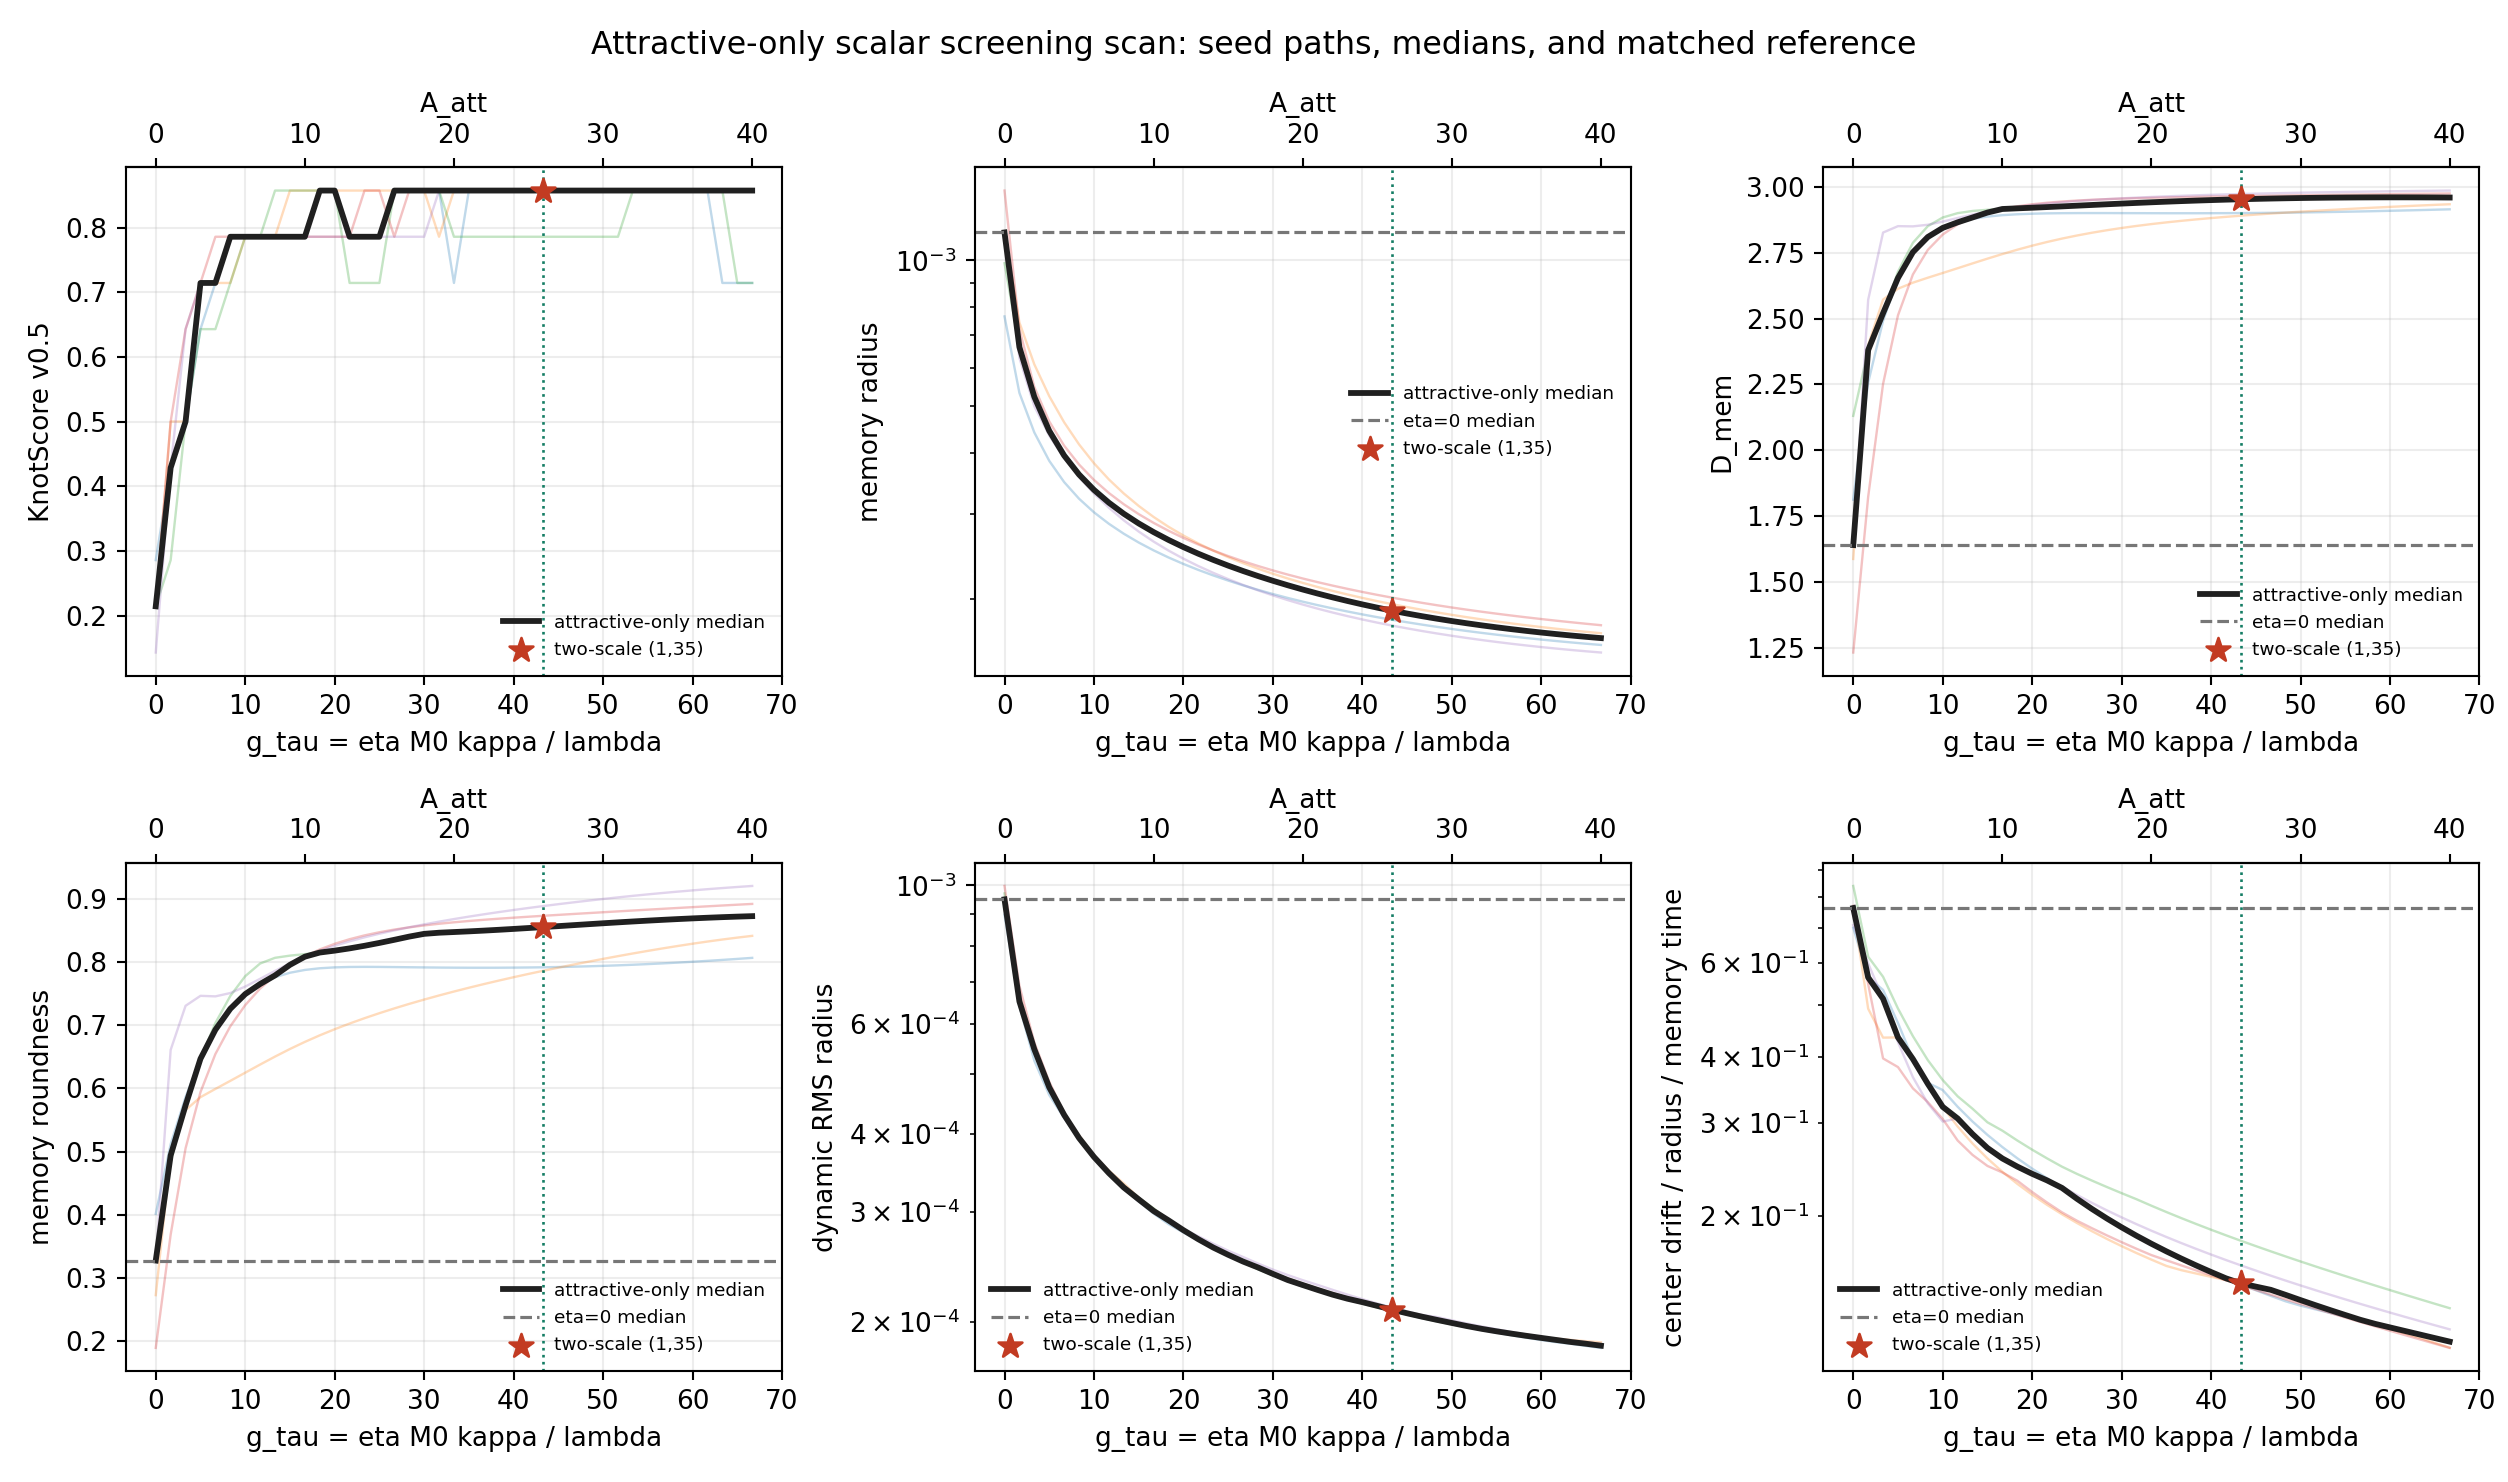
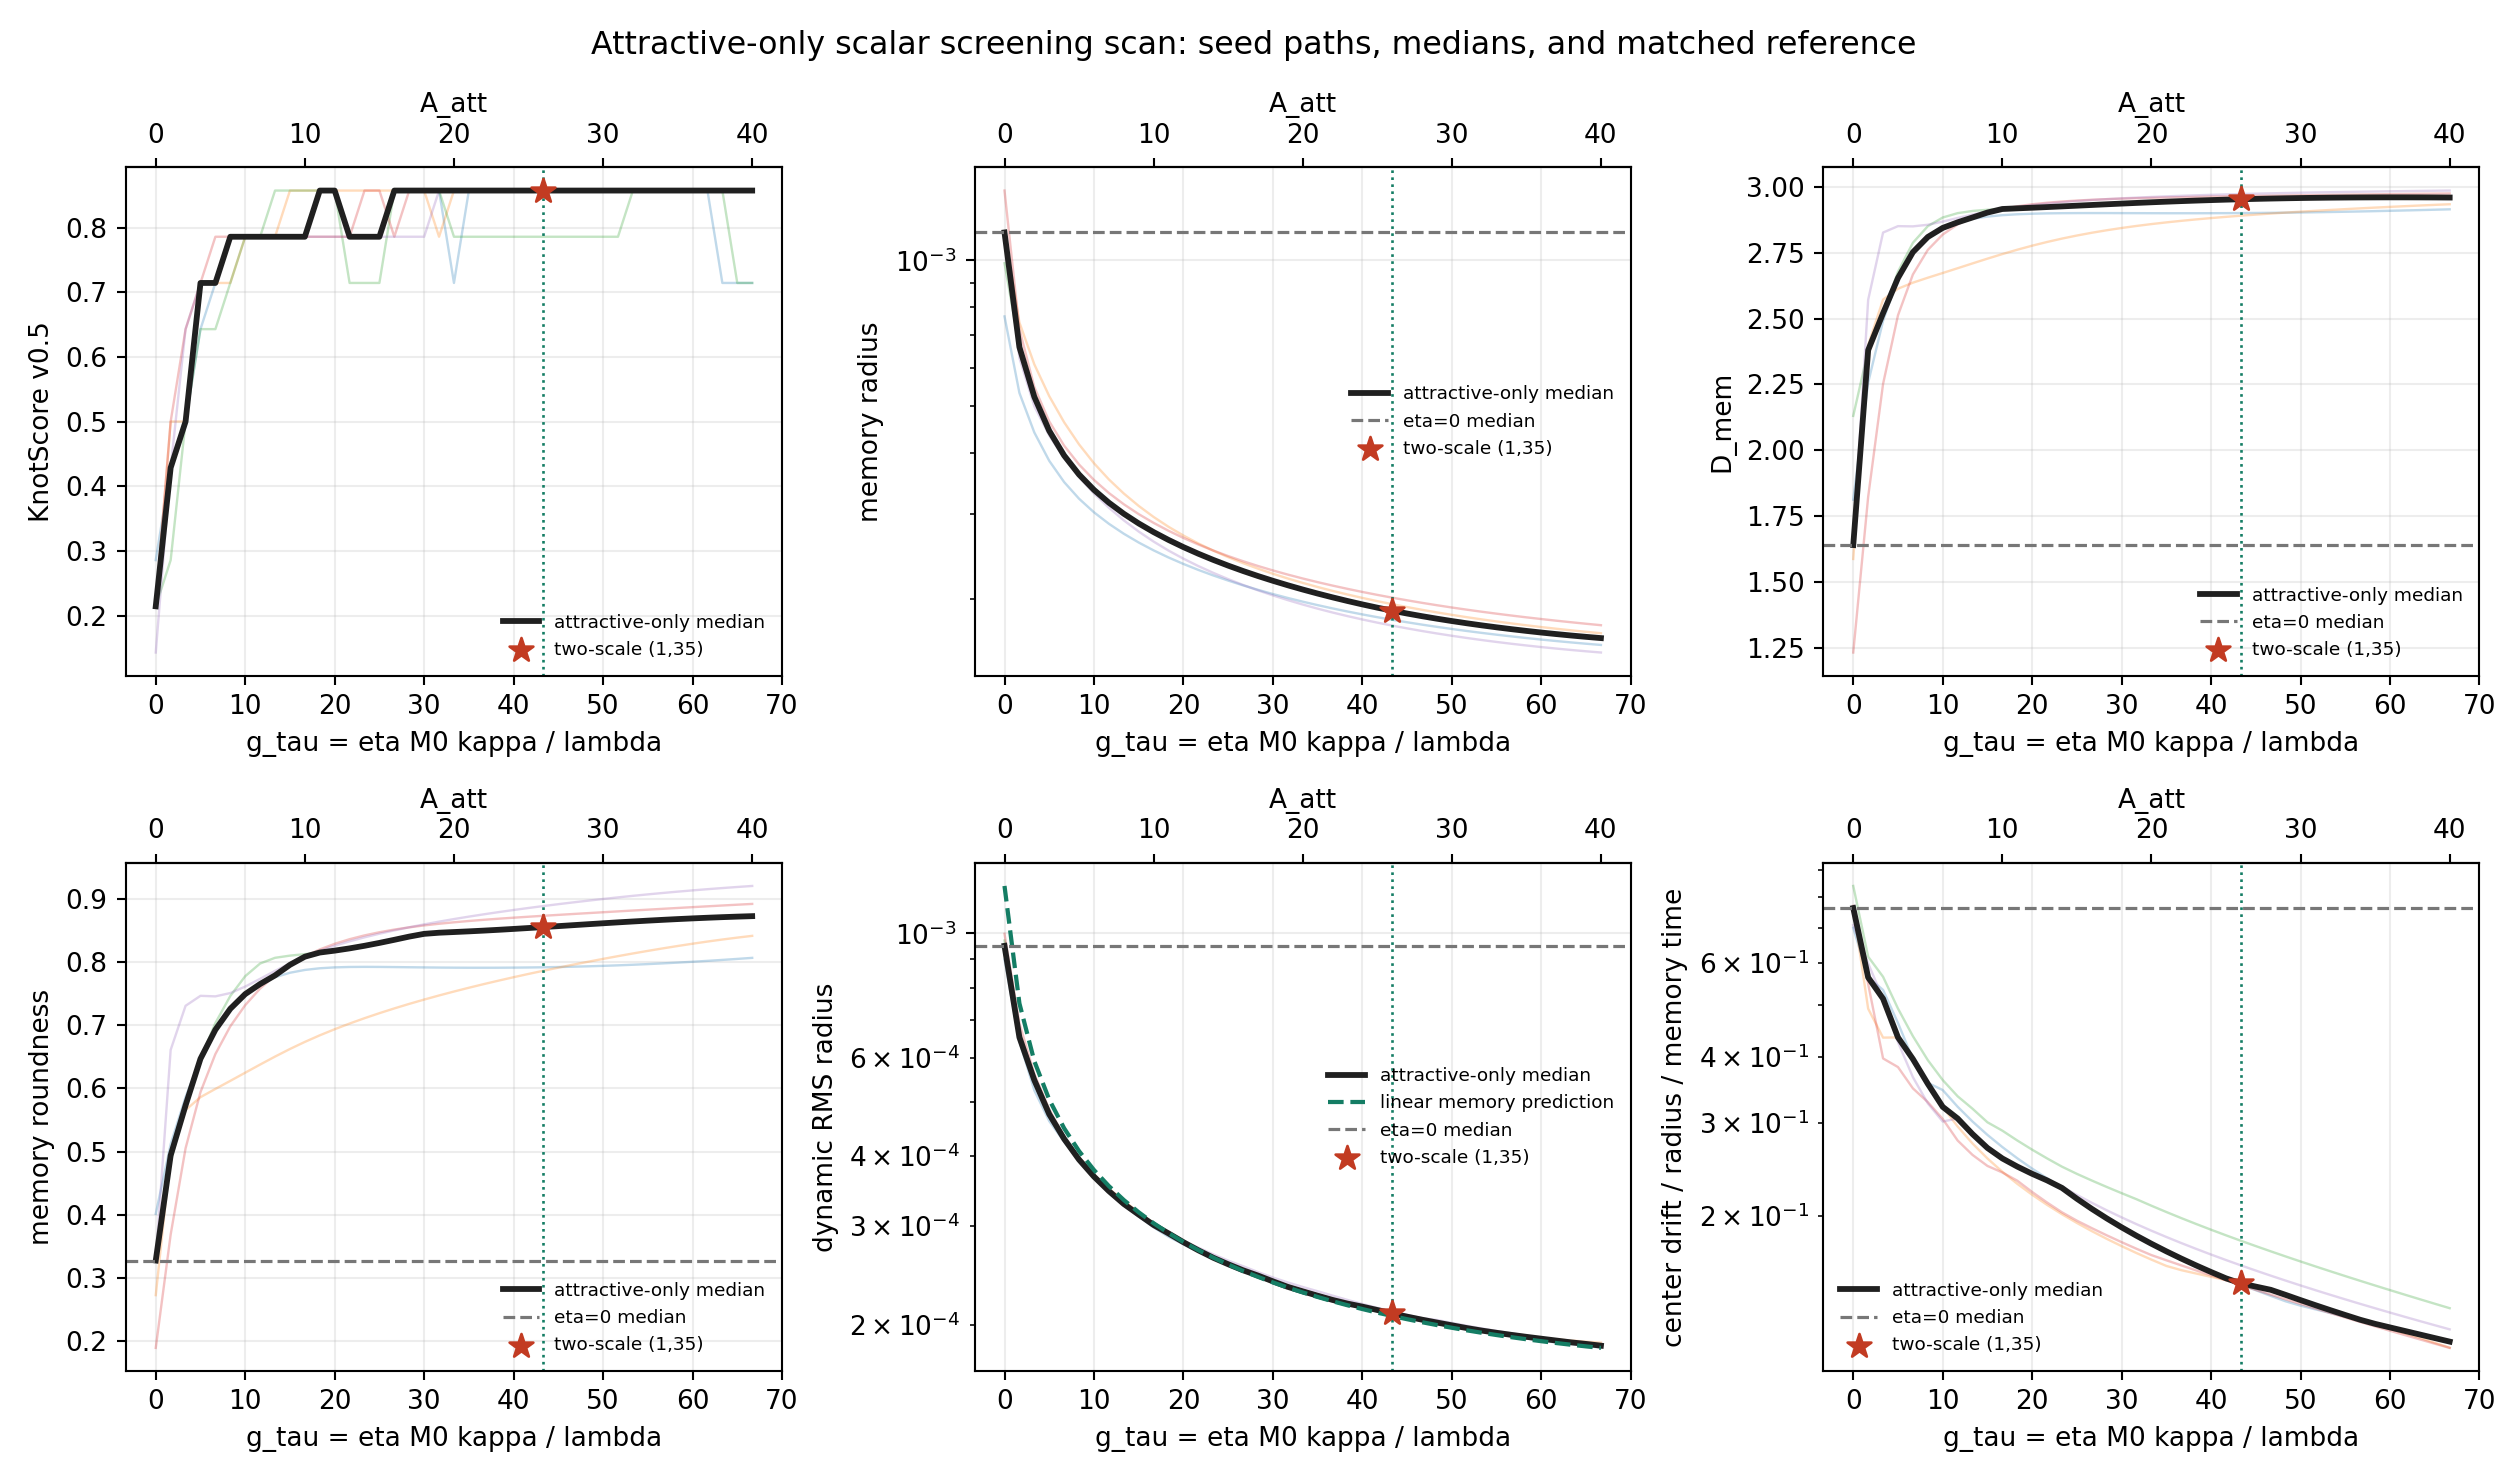
Publish attractive-only scan reconciliation

diff --git a/reports/kernels/core/attractive_only_regime_scan_d3_N300k_2026-07-18.md b/reports/kernels/core/attractive_only_regime_scan_d3_N300k_2026-07-18.md
@@ -1,6 +1,6 @@
 # Attractive-Only Scalar Regime Scan
 
-Date: 2026-07-18T22:45:30Z.
+Date: 2026-07-18T23:15:45Z.
 
 ## Scope
 
@@ -15,54 +15,57 @@ Without `A_rep`, every `A_att>0` has positive local restoring curvature.
 The former sign boundary near `A_att=9` is therefore absent analytically.
 Intervals below are ranked empirical KPI changes, not pre-labelled phase
 transitions.
+In this normalization `g=eta M0 A_att/sigma_att^2=A_att/60`.
+The whole scan is below the monotone/alternating boundary `A_att=60`
+and the linear relative-mode stability boundary `A_att=121`.
 
 ![Attractive-only regime scan](../../../figures/draft/kernels/core_2026-07-18/attractive_only_regime_scan.png)
 
 ## Aggregate
 
-| A_att | kappa | g/update | g/tau_mem | score | compact gain | R_mem/L_att | D_mem | roundness | dyn R | drift/R |
-| ---: | ---: | ---: | ---: | ---: | ---: | ---: | ---: | ---: | ---: | ---: |
-| 0 | 0 | 0 | 0 | 0.2143 | 1.0000 | 3.8059e-04 | 1.6406 | 0.3274 | 9.5007e-04 | 0.7625 |
-| 1.0000 | 0.1111 | 0.0167 | 1.6667 | 0.4286 | 1.5405 | 2.2064e-04 | 2.3800 | 0.4939 | 6.5201e-04 | 0.5641 |
-| 2.0000 | 0.2222 | 0.0333 | 3.3333 | 0.5000 | 1.8873 | 1.7421e-04 | 2.5204 | 0.5733 | 5.4674e-04 | 0.5143 |
-| 3.0000 | 0.3333 | 0.0500 | 5.0000 | 0.7143 | 2.2177 | 1.4826e-04 | 2.6539 | 0.6470 | 4.7519e-04 | 0.4348 |
-| 4.0000 | 0.4444 | 0.0667 | 6.6667 | 0.7143 | 2.4943 | 1.3181e-04 | 2.7519 | 0.6931 | 4.2932e-04 | 0.3958 |
-| 5.0000 | 0.5556 | 0.0833 | 8.3333 | 0.7857 | 2.7499 | 1.2042e-04 | 2.8094 | 0.7263 | 3.9419e-04 | 0.3554 |
-| 6.0000 | 0.6667 | 0.1000 | 10.0000 | 0.7857 | 3.0075 | 1.1196e-04 | 2.8439 | 0.7495 | 3.6766e-04 | 0.3216 |
-| 7.0000 | 0.7778 | 0.1167 | 11.6667 | 0.7857 | 3.2480 | 1.0533e-04 | 2.8651 | 0.7655 | 3.4635e-04 | 0.3058 |
-| 8.0000 | 0.8889 | 0.1333 | 13.3333 | 0.7857 | 3.4729 | 9.9943e-05 | 2.8835 | 0.7792 | 3.2846e-04 | 0.2857 |
-| 9.0000 | 1.0000 | 0.1500 | 15.0000 | 0.7857 | 3.6841 | 9.5443e-05 | 2.9022 | 0.7959 | 3.1441e-04 | 0.2690 |
-| 10.0000 | 1.1111 | 0.1667 | 16.6667 | 0.7857 | 3.8825 | 9.1598e-05 | 2.9157 | 0.8088 | 3.0123e-04 | 0.2571 |
-| 11.0000 | 1.2222 | 0.1833 | 18.3333 | 0.8571 | 4.0682 | 8.8248e-05 | 2.9181 | 0.8154 | 2.9098e-04 | 0.2481 |
-| 12.0000 | 1.3333 | 0.2000 | 20.0000 | 0.8571 | 4.2412 | 8.5288e-05 | 2.9205 | 0.8184 | 2.8066e-04 | 0.2405 |
-| 13.0000 | 1.4444 | 0.2167 | 21.6667 | 0.7857 | 4.4036 | 8.2644e-05 | 2.9230 | 0.8220 | 2.7143e-04 | 0.2337 |
-| 14.0000 | 1.5556 | 0.2333 | 23.3333 | 0.7857 | 4.5562 | 8.0264e-05 | 2.9256 | 0.8261 | 2.6326e-04 | 0.2262 |
-| 15.0000 | 1.6667 | 0.2500 | 25.0000 | 0.7857 | 4.6999 | 7.8105e-05 | 2.9282 | 0.8306 | 2.5631e-04 | 0.2158 |
-| 16.0000 | 1.7778 | 0.2667 | 26.6667 | 0.8571 | 4.8356 | 7.6135e-05 | 2.9309 | 0.8355 | 2.5001e-04 | 0.2065 |
-| 17.0000 | 1.8889 | 0.2833 | 28.3333 | 0.8571 | 4.9641 | 7.4331e-05 | 2.9336 | 0.8406 | 2.4462e-04 | 0.1982 |
-| 18.0000 | 2.0000 | 0.3000 | 30.0000 | 0.8571 | 5.0859 | 7.2672e-05 | 2.9362 | 0.8450 | 2.3889e-04 | 0.1906 |
-| 19.0000 | 2.1111 | 0.3167 | 31.6667 | 0.8571 | 5.2017 | 7.1138e-05 | 2.9387 | 0.8468 | 2.3352e-04 | 0.1837 |
-| 20.0000 | 2.2222 | 0.3333 | 33.3333 | 0.8571 | 5.3118 | 6.9717e-05 | 2.9411 | 0.8478 | 2.2927e-04 | 0.1775 |
-| 21.0000 | 2.3333 | 0.3500 | 35.0000 | 0.8571 | 5.4167 | 6.8395e-05 | 2.9434 | 0.8489 | 2.2518e-04 | 0.1717 |
-| 22.0000 | 2.4444 | 0.3667 | 36.6667 | 0.8571 | 5.5170 | 6.7165e-05 | 2.9456 | 0.8501 | 2.2129e-04 | 0.1664 |
-| 23.0000 | 2.5556 | 0.3833 | 38.3333 | 0.8571 | 5.6129 | 6.6020e-05 | 2.9476 | 0.8514 | 2.1799e-04 | 0.1615 |
-| 24.0000 | 2.6667 | 0.4000 | 40.0000 | 0.8571 | 5.7048 | 6.4952e-05 | 2.9494 | 0.8528 | 2.1527e-04 | 0.1570 |
-| 25.0000 | 2.7778 | 0.4167 | 41.6667 | 0.8571 | 5.7929 | 6.3960e-05 | 2.9511 | 0.8542 | 2.1231e-04 | 0.1527 |
-| 26.0000 | 2.8889 | 0.4333 | 43.3333 | 0.8571 | 5.8775 | 6.3044e-05 | 2.9527 | 0.8557 | 2.0934e-04 | 0.1494 |
-| 27.0000 | 3.0000 | 0.4500 | 45.0000 | 0.8571 | 5.9588 | 6.2199e-05 | 2.9540 | 0.8572 | 2.0659e-04 | 0.1474 |
-| 28.0000 | 3.1111 | 0.4667 | 46.6667 | 0.8571 | 6.0368 | 6.1416e-05 | 2.9553 | 0.8588 | 2.0403e-04 | 0.1453 |
-| 29.0000 | 3.2222 | 0.4833 | 48.3333 | 0.8571 | 6.1117 | 6.0689e-05 | 2.9563 | 0.8603 | 2.0164e-04 | 0.1421 |
-| 30.0000 | 3.3333 | 0.5000 | 50.0000 | 0.8571 | 6.1835 | 6.0013e-05 | 2.9573 | 0.8617 | 1.9935e-04 | 0.1390 |
-| 31.0000 | 3.4444 | 0.5167 | 51.6667 | 0.8571 | 6.2522 | 5.9383e-05 | 2.9580 | 0.8632 | 1.9710e-04 | 0.1359 |
-| 32.0000 | 3.5556 | 0.5333 | 53.3333 | 0.8571 | 6.3178 | 5.8797e-05 | 2.9587 | 0.8646 | 1.9509e-04 | 0.1330 |
-| 33.0000 | 3.6667 | 0.5500 | 55.0000 | 0.8571 | 6.3805 | 5.8251e-05 | 2.9592 | 0.8659 | 1.9331e-04 | 0.1302 |
-| 34.0000 | 3.7778 | 0.5667 | 56.6667 | 0.8571 | 6.4405 | 5.7741e-05 | 2.9595 | 0.8672 | 1.9166e-04 | 0.1276 |
-| 35.0000 | 3.8889 | 0.5833 | 58.3333 | 0.8571 | 6.4978 | 5.7266e-05 | 2.9598 | 0.8684 | 1.9012e-04 | 0.1253 |
-| 36.0000 | 4.0000 | 0.6000 | 60.0000 | 0.8571 | 6.5526 | 5.6823e-05 | 2.9599 | 0.8695 | 1.8867e-04 | 0.1234 |
-| 37.0000 | 4.1111 | 0.6167 | 61.6667 | 0.8571 | 6.6050 | 5.6411e-05 | 2.9599 | 0.8705 | 1.8725e-04 | 0.1215 |
-| 38.0000 | 4.2222 | 0.6333 | 63.3333 | 0.8571 | 6.6548 | 5.6028e-05 | 2.9597 | 0.8714 | 1.8584e-04 | 0.1197 |
-| 39.0000 | 4.3333 | 0.6500 | 65.0000 | 0.8571 | 6.7023 | 5.5672e-05 | 2.9595 | 0.8723 | 1.8464e-04 | 0.1178 |
-| 40.0000 | 4.4444 | 0.6667 | 66.6667 | 0.8571 | 6.7474 | 5.5341e-05 | 2.9591 | 0.8730 | 1.8333e-04 | 0.1161 |
+| A_att | kappa | g/update | g/tau_mem | score | compact gain | R_mem/L_att | D_mem | roundness | dyn R | R_linear | dyn/linear | drift/R |
+| ---: | ---: | ---: | ---: | ---: | ---: | ---: | ---: | ---: | ---: | ---: | ---: | ---: |
+| 0 | 0 | 0 | 0 | 0.2143 | 1.0000 | 3.8059e-04 | 1.6406 | 0.3274 | 9.5007e-04 | 0.0012 | 0.7816 | 0.7625 |
+| 1.0000 | 0.1111 | 0.0167 | 1.6667 | 0.4286 | 1.5405 | 2.2064e-04 | 2.3800 | 0.4939 | 6.5201e-04 | 7.4982e-04 | 0.8696 | 0.5641 |
+| 2.0000 | 0.2222 | 0.0333 | 3.3333 | 0.5000 | 1.8873 | 1.7421e-04 | 2.5204 | 0.5733 | 5.4674e-04 | 5.9111e-04 | 0.9249 | 0.5143 |
+| 3.0000 | 0.3333 | 0.0500 | 5.0000 | 0.7143 | 2.2177 | 1.4826e-04 | 2.6539 | 0.6470 | 4.7519e-04 | 5.0464e-04 | 0.9416 | 0.4348 |
+| 4.0000 | 0.4444 | 0.0667 | 6.6667 | 0.7143 | 2.4943 | 1.3181e-04 | 2.7519 | 0.6931 | 4.2932e-04 | 4.4842e-04 | 0.9574 | 0.3958 |
+| 5.0000 | 0.5556 | 0.0833 | 8.3333 | 0.7857 | 2.7499 | 1.2042e-04 | 2.8094 | 0.7263 | 3.9419e-04 | 4.0822e-04 | 0.9656 | 0.3554 |
+| 6.0000 | 0.6667 | 0.1000 | 10.0000 | 0.7857 | 3.0075 | 1.1196e-04 | 2.8439 | 0.7495 | 3.6766e-04 | 3.7769e-04 | 0.9734 | 0.3216 |
+| 7.0000 | 0.7778 | 0.1167 | 11.6667 | 0.7857 | 3.2480 | 1.0533e-04 | 2.8651 | 0.7655 | 3.4635e-04 | 3.5353e-04 | 0.9797 | 0.3058 |
+| 8.0000 | 0.8889 | 0.1333 | 13.3333 | 0.7857 | 3.4729 | 9.9943e-05 | 2.8835 | 0.7792 | 3.2846e-04 | 3.3383e-04 | 0.9839 | 0.2857 |
+| 9.0000 | 1.0000 | 0.1500 | 15.0000 | 0.7857 | 3.6841 | 9.5443e-05 | 2.9022 | 0.7959 | 3.1441e-04 | 3.1739e-04 | 0.9906 | 0.2690 |
+| 10.0000 | 1.1111 | 0.1667 | 16.6667 | 0.7857 | 3.8825 | 9.1598e-05 | 2.9157 | 0.8088 | 3.0123e-04 | 3.0342e-04 | 0.9928 | 0.2571 |
+| 11.0000 | 1.2222 | 0.1833 | 18.3333 | 0.8571 | 4.0682 | 8.8248e-05 | 2.9181 | 0.8154 | 2.9098e-04 | 2.9137e-04 | 0.9987 | 0.2481 |
+| 12.0000 | 1.3333 | 0.2000 | 20.0000 | 0.8571 | 4.2412 | 8.5288e-05 | 2.9205 | 0.8184 | 2.8066e-04 | 2.8086e-04 | 0.9993 | 0.2405 |
+| 13.0000 | 1.4444 | 0.2167 | 21.6667 | 0.7857 | 4.4036 | 8.2644e-05 | 2.9230 | 0.8220 | 2.7143e-04 | 2.7160e-04 | 0.9994 | 0.2337 |
+| 14.0000 | 1.5556 | 0.2333 | 23.3333 | 0.7857 | 4.5562 | 8.0264e-05 | 2.9256 | 0.8261 | 2.6326e-04 | 2.6336e-04 | 0.9996 | 0.2262 |
+| 15.0000 | 1.6667 | 0.2500 | 25.0000 | 0.7857 | 4.6999 | 7.8105e-05 | 2.9282 | 0.8306 | 2.5631e-04 | 2.5599e-04 | 1.0013 | 0.2158 |
+| 16.0000 | 1.7778 | 0.2667 | 26.6667 | 0.8571 | 4.8356 | 7.6135e-05 | 2.9309 | 0.8355 | 2.5001e-04 | 2.4934e-04 | 1.0027 | 0.2065 |
+| 17.0000 | 1.8889 | 0.2833 | 28.3333 | 0.8571 | 4.9641 | 7.4331e-05 | 2.9336 | 0.8406 | 2.4462e-04 | 2.4333e-04 | 1.0053 | 0.1982 |
+| 18.0000 | 2.0000 | 0.3000 | 30.0000 | 0.8571 | 5.0859 | 7.2672e-05 | 2.9362 | 0.8450 | 2.3889e-04 | 2.3785e-04 | 1.0044 | 0.1906 |
+| 19.0000 | 2.1111 | 0.3167 | 31.6667 | 0.8571 | 5.2017 | 7.1138e-05 | 2.9387 | 0.8468 | 2.3352e-04 | 2.3284e-04 | 1.0029 | 0.1837 |
+| 20.0000 | 2.2222 | 0.3333 | 33.3333 | 0.8571 | 5.3118 | 6.9717e-05 | 2.9411 | 0.8478 | 2.2927e-04 | 2.2825e-04 | 1.0045 | 0.1775 |
+| 21.0000 | 2.3333 | 0.3500 | 35.0000 | 0.8571 | 5.4167 | 6.8395e-05 | 2.9434 | 0.8489 | 2.2518e-04 | 2.2402e-04 | 1.0052 | 0.1717 |
+| 22.0000 | 2.4444 | 0.3667 | 36.6667 | 0.8571 | 5.5170 | 6.7165e-05 | 2.9456 | 0.8501 | 2.2129e-04 | 2.2011e-04 | 1.0054 | 0.1664 |
+| 23.0000 | 2.5556 | 0.3833 | 38.3333 | 0.8571 | 5.6129 | 6.6020e-05 | 2.9476 | 0.8514 | 2.1799e-04 | 2.1650e-04 | 1.0069 | 0.1615 |
+| 24.0000 | 2.6667 | 0.4000 | 40.0000 | 0.8571 | 5.7048 | 6.4952e-05 | 2.9494 | 0.8528 | 2.1527e-04 | 2.1315e-04 | 1.0099 | 0.1570 |
+| 25.0000 | 2.7778 | 0.4167 | 41.6667 | 0.8571 | 5.7929 | 6.3960e-05 | 2.9511 | 0.8542 | 2.1231e-04 | 2.1004e-04 | 1.0108 | 0.1527 |
+| 26.0000 | 2.8889 | 0.4333 | 43.3333 | 0.8571 | 5.8775 | 6.3044e-05 | 2.9527 | 0.8557 | 2.0934e-04 | 2.0714e-04 | 1.0106 | 0.1494 |
+| 27.0000 | 3.0000 | 0.4500 | 45.0000 | 0.8571 | 5.9588 | 6.2199e-05 | 2.9540 | 0.8572 | 2.0659e-04 | 2.0444e-04 | 1.0105 | 0.1474 |
+| 28.0000 | 3.1111 | 0.4667 | 46.6667 | 0.8571 | 6.0368 | 6.1416e-05 | 2.9553 | 0.8588 | 2.0403e-04 | 2.0191e-04 | 1.0105 | 0.1453 |
+| 29.0000 | 3.2222 | 0.4833 | 48.3333 | 0.8571 | 6.1117 | 6.0689e-05 | 2.9563 | 0.8603 | 2.0164e-04 | 1.9955e-04 | 1.0104 | 0.1421 |
+| 30.0000 | 3.3333 | 0.5000 | 50.0000 | 0.8571 | 6.1835 | 6.0013e-05 | 2.9573 | 0.8617 | 1.9935e-04 | 1.9735e-04 | 1.0101 | 0.1390 |
+| 31.0000 | 3.4444 | 0.5167 | 51.6667 | 0.8571 | 6.2522 | 5.9383e-05 | 2.9580 | 0.8632 | 1.9710e-04 | 1.9528e-04 | 1.0093 | 0.1359 |
+| 32.0000 | 3.5556 | 0.5333 | 53.3333 | 0.8571 | 6.3178 | 5.8797e-05 | 2.9587 | 0.8646 | 1.9509e-04 | 1.9334e-04 | 1.0090 | 0.1330 |
+| 33.0000 | 3.6667 | 0.5500 | 55.0000 | 0.8571 | 6.3805 | 5.8251e-05 | 2.9592 | 0.8659 | 1.9331e-04 | 1.9153e-04 | 1.0093 | 0.1302 |
+| 34.0000 | 3.7778 | 0.5667 | 56.6667 | 0.8571 | 6.4405 | 5.7741e-05 | 2.9595 | 0.8672 | 1.9166e-04 | 1.8983e-04 | 1.0097 | 0.1276 |
+| 35.0000 | 3.8889 | 0.5833 | 58.3333 | 0.8571 | 6.4978 | 5.7266e-05 | 2.9598 | 0.8684 | 1.9012e-04 | 1.8823e-04 | 1.0100 | 0.1253 |
+| 36.0000 | 4.0000 | 0.6000 | 60.0000 | 0.8571 | 6.5526 | 5.6823e-05 | 2.9599 | 0.8695 | 1.8867e-04 | 1.8674e-04 | 1.0103 | 0.1234 |
+| 37.0000 | 4.1111 | 0.6167 | 61.6667 | 0.8571 | 6.6050 | 5.6411e-05 | 2.9599 | 0.8705 | 1.8725e-04 | 1.8534e-04 | 1.0103 | 0.1215 |
+| 38.0000 | 4.2222 | 0.6333 | 63.3333 | 0.8571 | 6.6548 | 5.6028e-05 | 2.9597 | 0.8714 | 1.8584e-04 | 1.8403e-04 | 1.0098 | 0.1197 |
+| 39.0000 | 4.3333 | 0.6500 | 65.0000 | 0.8571 | 6.7023 | 5.5672e-05 | 2.9595 | 0.8723 | 1.8464e-04 | 1.8280e-04 | 1.0101 | 0.1178 |
+| 40.0000 | 4.4444 | 0.6667 | 66.6667 | 0.8571 | 6.7474 | 5.5341e-05 | 2.9591 | 0.8730 | 1.8333e-04 | 1.8165e-04 | 1.0092 | 0.1161 |
 
 ## Matched ablation
 
@@ -97,17 +100,22 @@ noise and controls.
 ## Decision gate
 
 - `A_att=0` baseline is bitwise equal to shared `eta=0`: `True`.
-- Only an interval with a seed-consistent raw-KPI change, not merely a
-  KnotScore threshold crossing, qualifies for a denser `N=1M` retest.
-- If the curves are smooth, the correct conclusion is a continuous
-  stiffness/noise response and no detected finite-A phase transition.
+- For `A_att>=5`, the median relative dynamic-radius error against the
+  linear memory prediction is `0.0094` and the maximum is
+  `0.0344`.
+- The raw KPIs change smoothly and the ranked intervals decay away from
+  the exact `A_att=0` null. No finite-A phase transition is detected.
+- A denser `N=1M` scan around a score threshold is therefore not justified.
 - The matched `A_att=26` comparison decides whether `A_rep` is
   dynamically identifiable in the currently sampled Taylor regime.
+- The next controlled gate should vary the predicted dimensionless
+  radius `R/L` at fixed `g`, not add another raw amplitude scan.
 
 ## Provenance
 
-- Runtime: `2353.89 s`
-- Git revision: `77f2112af7d770946e296c0c2d6e53e20b31e7ef`
+- Persisted case compute time (sum of `215` per-case timers): `2282.50 s`
+- Current report invocation: `0.53 s`
+- Git revision: `8ef72230353a421a603f1aa8b5555ce4dcdd0df7`
 - Git status: `clean`
 - Raw cases: `data/processed/kernel_core/` (ignored bulk data)
 - Script: `experiments/current/kernels/attractive_only_regime_scan.py`